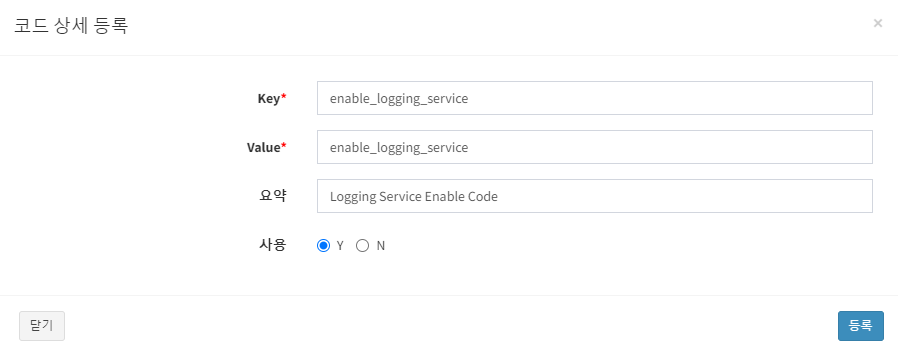
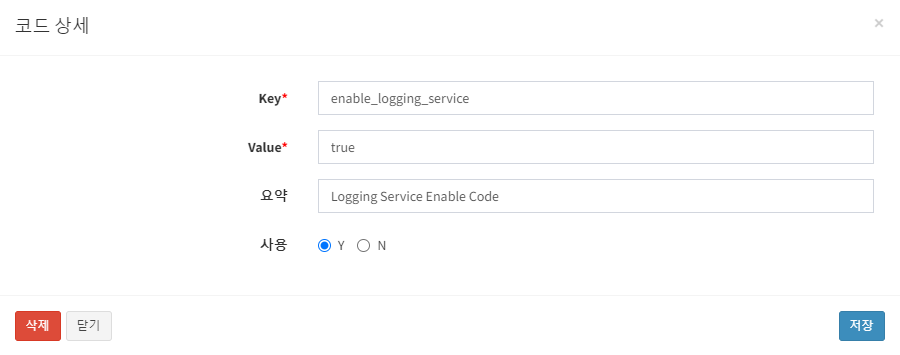
Update Logging Service install guide

diff --git a/install/service/logging.md b/install/service/logging.md
@@ -231,7 +231,7 @@ Task 193. Done
 Deployment 'logging-service'
 
 Instance                                        Process State  AZ  IPs         VM CID                                   VM Type  Active  Stemcell  
-log-api/0d710aae-3c0f-44b2-ac79-4a134ad2c601        running        z4  10.0.1.163  vm-d04c9c5f-55c8-44ca-b64b-57db7c60d619  small    true    bosh-vsphere-esxi-ubuntu-bionic-go_agent/1.107  
+log-api/0d710aae-3c0f-44b2-ac79-4a134ad2c601    running        z4  10.0.1.163  vm-d04c9c5f-55c8-44ca-b64b-57db7c60d619  small    true    bosh-vsphere-esxi-ubuntu-bionic-go_agent/1.107  
 collector/c417b48c-4efe-47fd-a9a0-70529b6963cc  running        z4  10.0.1.162  vm-16a6a6b0-db47-4feb-b409-6bbd27370774  small    true    bosh-vsphere-esxi-ubuntu-bionic-go_agent/1.107  
 fluentd/0e7912d8-e9b0-4bab-986b-8f2c9351af77    running        z4  10.0.1.105  vm-758fdead-9b51-4fcf-aea9-929954dddee4  small    true    bosh-vsphere-esxi-ubuntu-bionic-go_agent/1.107  
 influxdb/e4078a4d-b71b-4e91-8f30-85189c3ecf3f   running        z4  10.0.1.115  vm-7d3b4e7f-eb90-406e-b2a4-c16c458d4bdc  large    true    bosh-vsphere-esxi-ubuntu-bionic-go_agent/1.107
@@ -255,8 +255,8 @@ influxdb/e4078a4d-b71b-4e91-8f30-85189c3ecf3f   running        z4  10.0.1.115  v
 > ![003]
 >
 > ※ Detail Table  
-> Key : enable_logging_service 
-> Value : enable_logging_service  
+> Key : enable_logging_service  
+> Value : true  
 > 요약 : Logging Service Enable Code  
 > 사용 : Y  
 > ![004]
